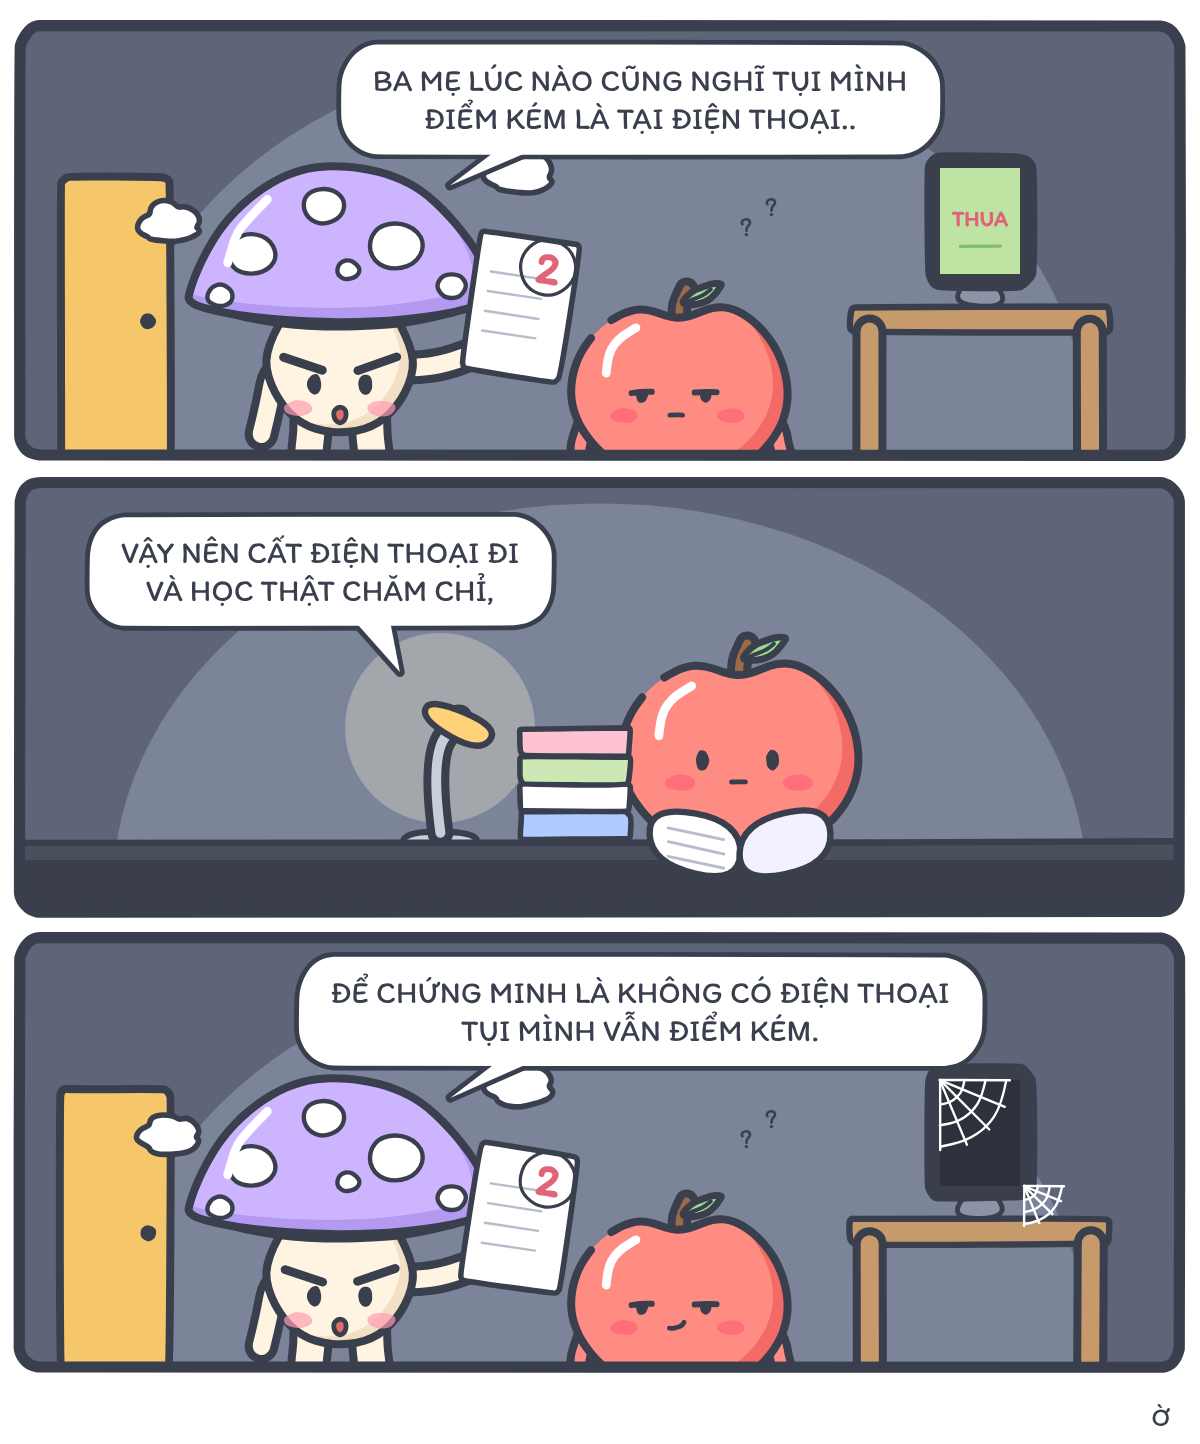
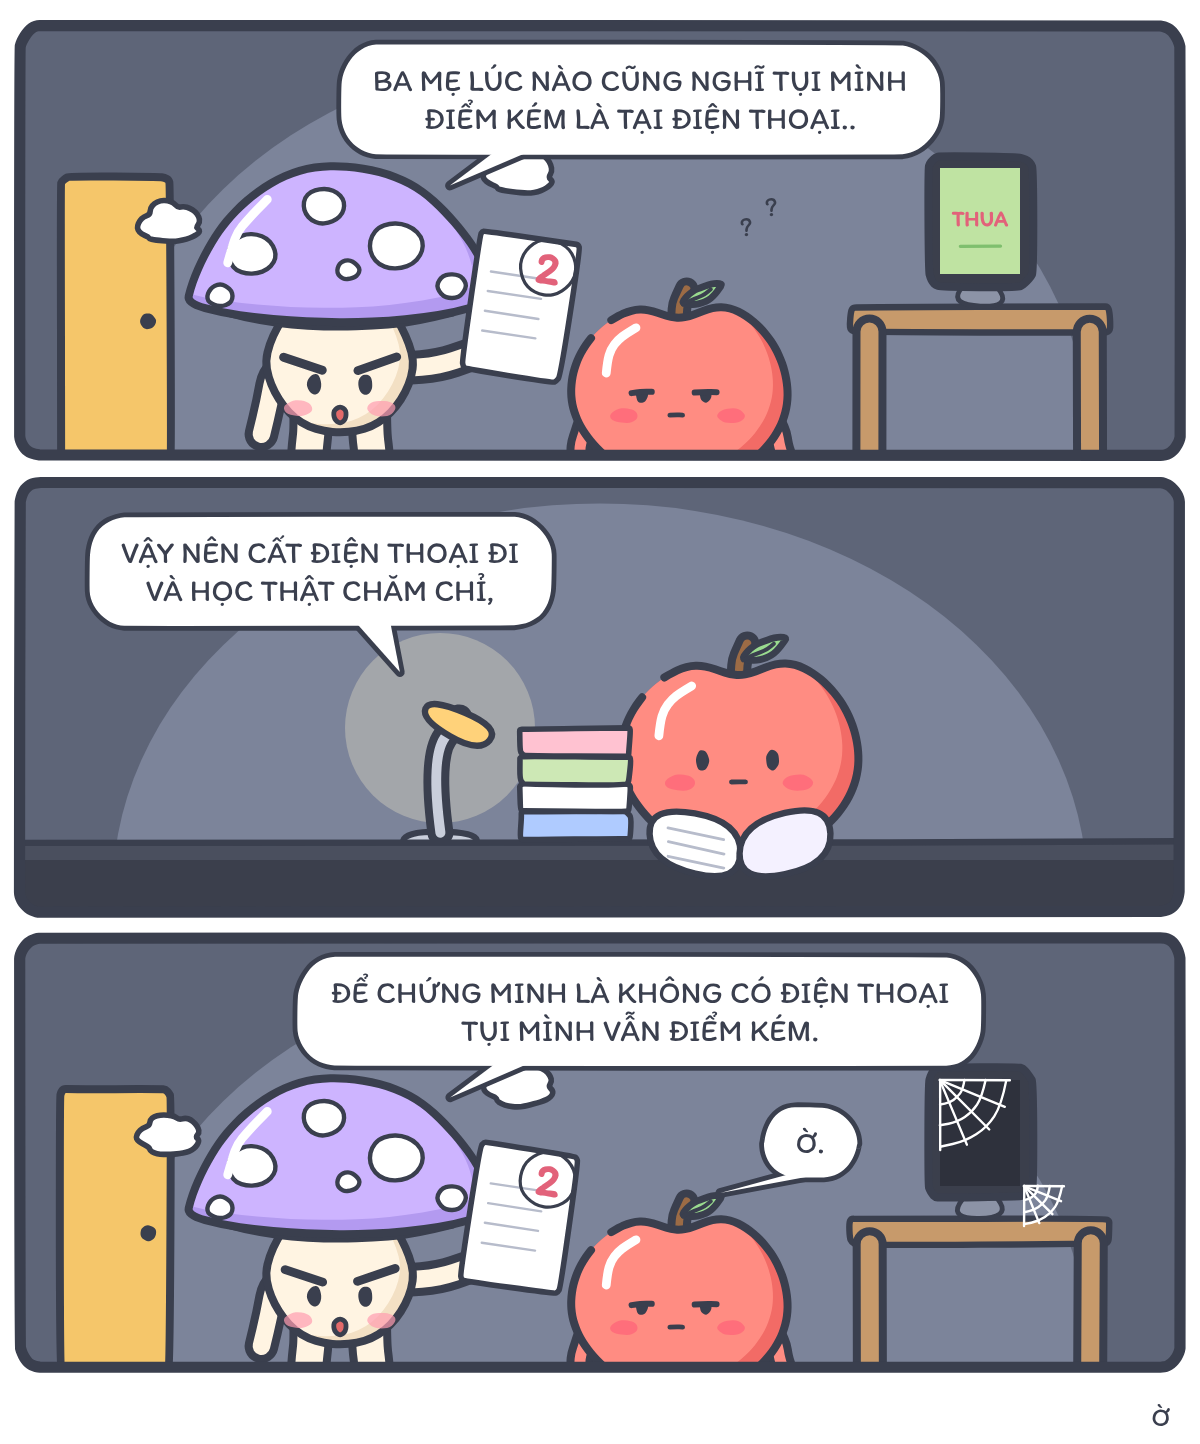
Comics: Táo answers 'Ờ.' at the end of Điểm kém; title is the story name, footer 'Táo Ờ'
Claude-Session: https://claude.ai/code/session_01FoSJyPsnkh1zBYsHdc1KYP

Changed region(s): [[0.5858, 0.7479, 0.74, 0.8414]]

diff --git a/comics/family.ts b/comics/family.ts
@@ -1112,7 +1112,7 @@ export function strip5(c: CanvasRenderingContext2D): void {
   const w = W2 - 40;
   const py = (i: number) => GAP + i * (PH2 + GAP);
 
-  const rant = (lines: string[], dusty: boolean, taoMouth: number) => {
+  const rant = (lines: string[], dusty: boolean, taoMouth: number, taoLine = '') => {
     nightBg(sk, w, PH2);
     door(sk, 40, 150, PH2 + 10);
     phoneOnDesk(sk, 960, PH2 - 150, dusty);
@@ -1122,7 +1122,8 @@ export function strip5(c: CanvasRenderingContext2D): void {
     puff(sk, 150, 200, 1); puff(sk, 500, 150, 1.1);
     testPaper(sk, 500, PH2 - 150);
     apple(660, PH2 + 50, 0.5, { eyes: 0, mouth: taoMouth, lookX: -0.8 }).draw(sk, 0);
-    sk.ctx.save(); sk.ctx.fillStyle = INK; sk.ctx.font = `28px ${FONT_FAMILY}`; sk.ctx.fillText('?', 720, 210); sk.ctx.fillText('?', 745, 190); sk.ctx.restore();
+    if (taoLine) sayBox(sk, 790, 205, [taoLine], [700, 255], 30);
+    else { sk.ctx.save(); sk.ctx.fillStyle = INK; sk.ctx.font = `28px ${FONT_FAMILY}`; sk.ctx.fillText('?', 720, 210); sk.ctx.fillText('?', 745, 190); sk.ctx.restore(); }
     sayBox(sk, 620, 74, lines, [430, 160], 31);
   };
 
@@ -1142,7 +1143,7 @@ export function strip5(c: CanvasRenderingContext2D): void {
   });
 
   // 3. Same scene, weeks later: the real reason.
-  panelFrame(sk, py(2), () => rant(['ĐỂ CHỨNG MINH LÀ KHÔNG CÓ ĐIỆN THOẠI', 'TỤI MÌNH VẪN ĐIỂM KÉM.'], true, 3));
+  panelFrame(sk, py(2), () => rant(['ĐỂ CHỨNG MINH LÀ KHÔNG CÓ ĐIỆN THOẠI', 'TỤI MÌNH VẪN ĐIỂM KÉM.'], true, 0, 'Ờ.'));
 
   c.setTransform(1, 0, 0, 1, 0, 0);
   text(c, W2 - 30, c.canvas.height - 18, 'Ờ', 26, 'right');
